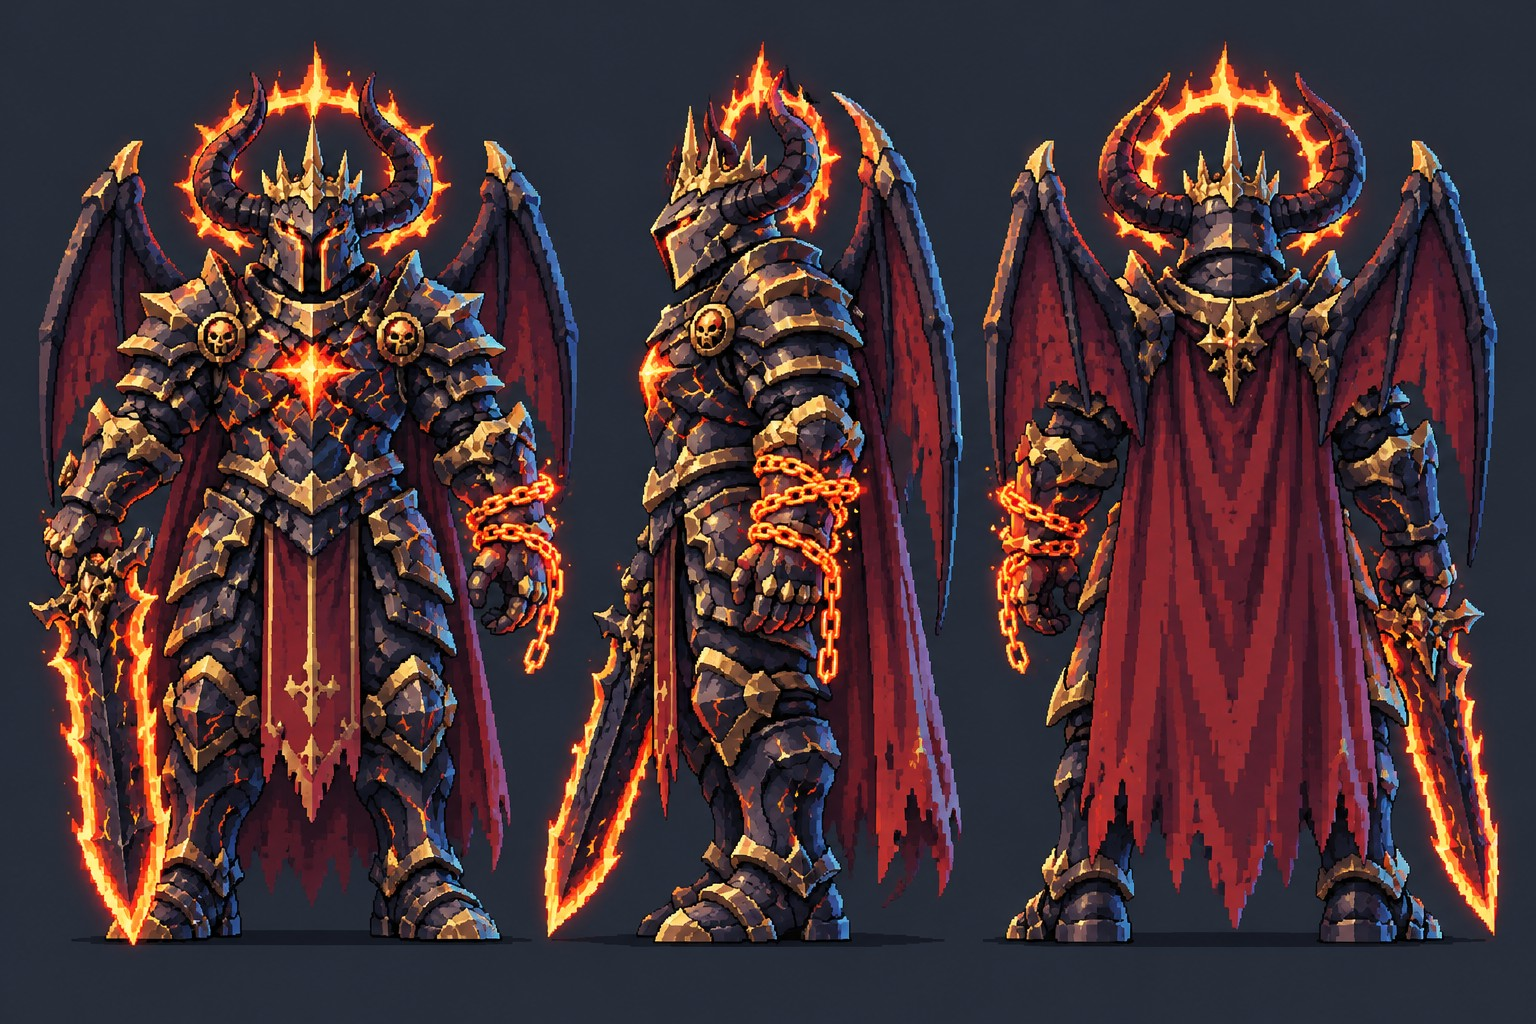
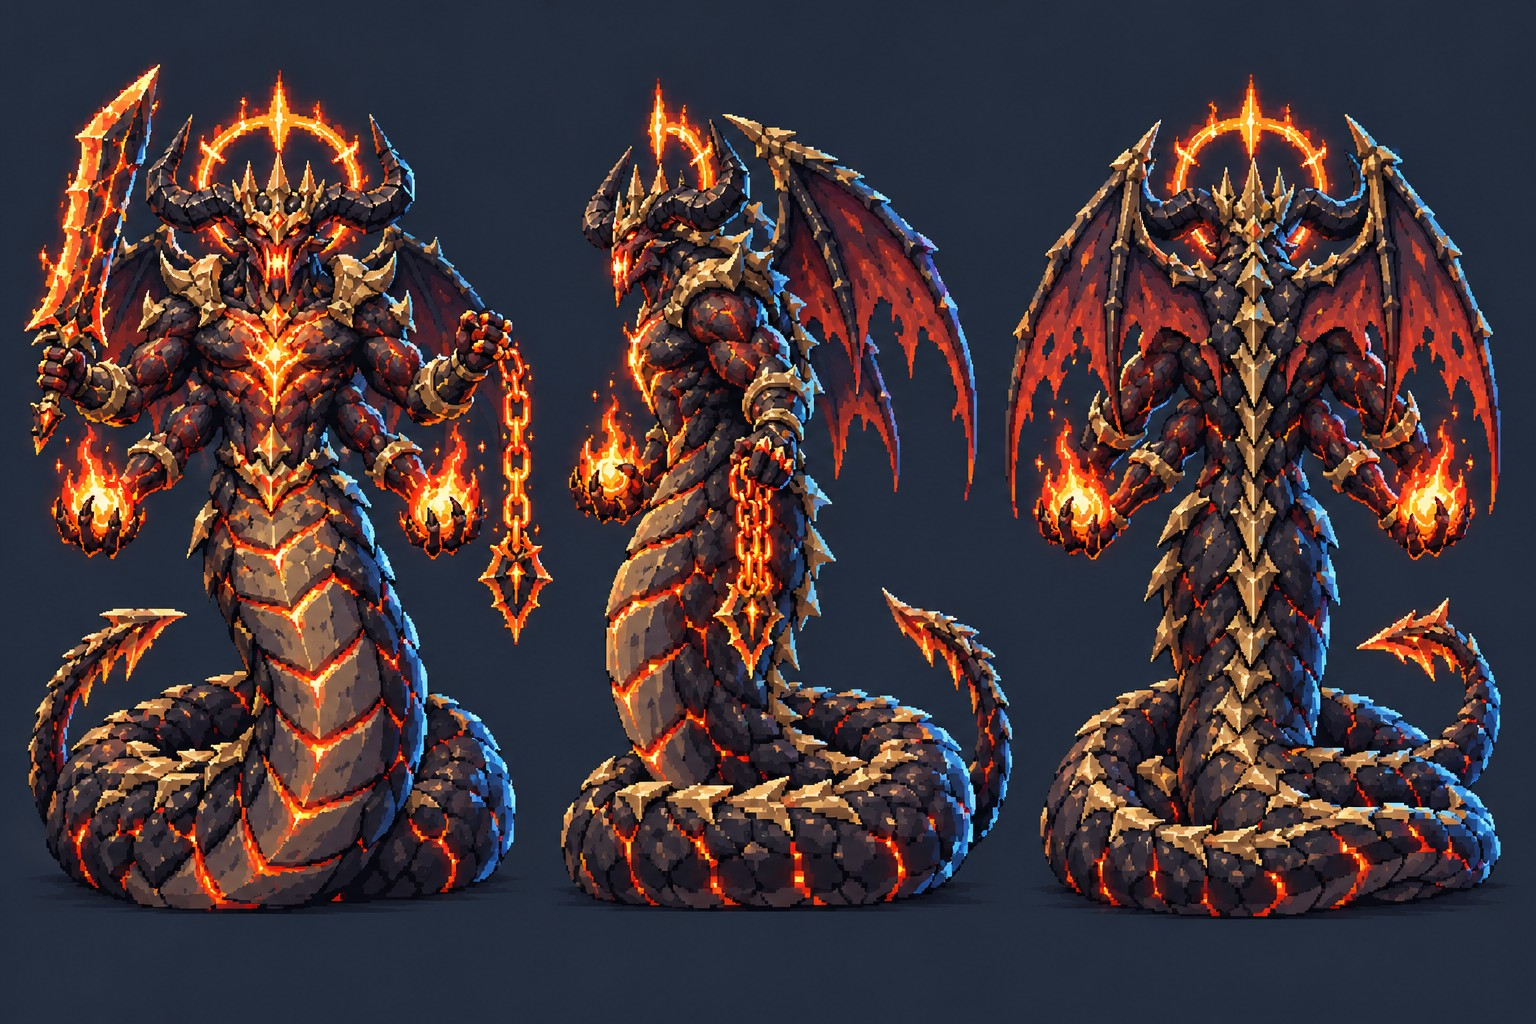
4막 설정화: 지옥의 군주 A안(뱀 하체 · 팔 넷) 채택 — 예전 기사형·B/C 후보는 따로 보관
Claude-Session: https://claude.ai/code/session_013Ys8dr7eBzpC28h3bn3fim

diff --git a/refs/몬스터/4막/README.md b/refs/몬스터/4막/README.md
@@ -13,4 +13,6 @@ GPT(codex image_generation, ChatGPT 구독)로 뽑았다. 화풍 참고는 `refs
 | `lavagolem.jpg` | 용암 골렘(108층~ 느린 거인 · 균열 분출) | 육각 현무암 기둥을 쌓은 몸 · 이음매 용암 · 가슴 용암 핵 · 어깨 흑요석 바위 · 어깨 위 불꽃 · 파묻힌 머리 · 땅까지 늘어진 팔 끝 바위 주먹 |
 | `lavabeast.jpg` | 100층 용암 거수 | 등에 육각 현무암 기둥 등껍질 · 앞으로 휜 크림빛 뿔 둘 · 용암이 비치는 턱 · 바위 비늘 몸 · 기둥 다리 · 용암 결정 꼬리 끝 |
 | `executioner.jpg` | 110층 화염 처형자 | 검붉은 거한 · 황소 뿔 · 얼굴을 덮는 검은 복면과 사슬 · 등에서 머리 위로 솟는 불기둥 · 왼어깨 견갑 · 해골 버클 앞치마 · 고기 갈고리 · 굽은 다리 · 꼬리 · 날끝이 달아오른 초승달 대도끼 |
-| `hellsovereign.jpg` | 120층 지옥의 군주 | 흑요석 판금(금 테) · 가슴 용암 핵 · 큰 뿔 + 금관 · 머리 뒤 불 후광 · 접은 박쥐 날개 · 진홍 망토 · 용암 날 대검 · 왼팔 화염 사슬 |
+| `hellsovereign.jpg` | 120층 지옥의 군주(**10-20 다시 — A안 채택**) | 디아블로풍 원시 악마 나가: 똬리 튼 뱀 하체(용암 그물 비늘 · 밝은 배 비늘 · 등 가시) · 팔 넷(위: 대검 · 화염 사슬 / 아래: 지옥불 덩이) · 긴 송곳니 입 · 큰 뿔 + 금관 · 불의 후광 · 박쥐 날개(사용자: 모델은 원화보다 날개를 더 크게) · 망토 없음 |
+| `hellsovereign_alt_B.jpg` · `hellsovereign_alt_C.jpg` | (안 고른 후보) | B 지네 하체 + 팔 넷 · C 거미 다리 여섯 + 큰 팔 둘 |
+| `hellsovereign_knight.jpg` | (예전 원화 — 10-19) | 흑기사와 비슷한 판금 기사형이라 10-20 에 바꿨다 |
